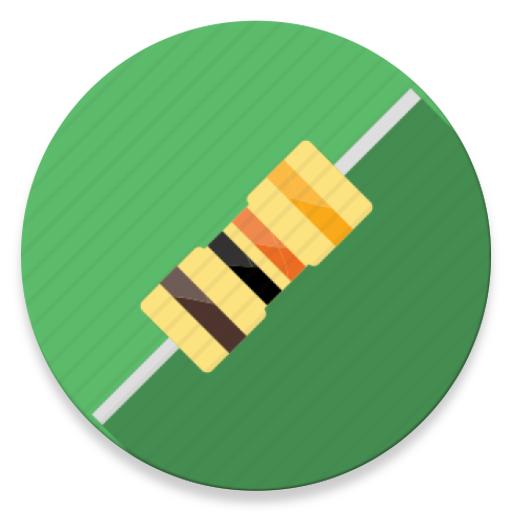
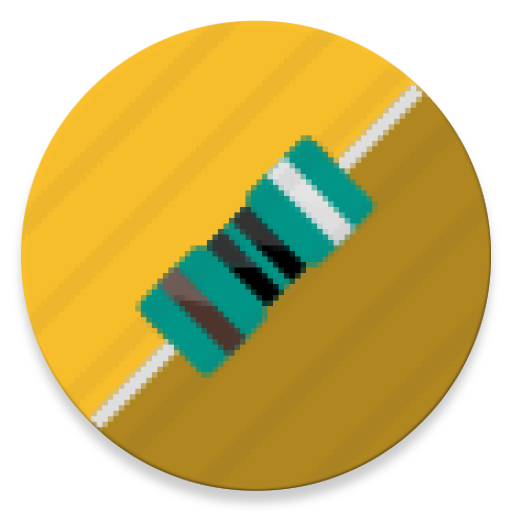
Homescherm start layout

diff --git a/app/src/main/java/ap/appoty/viktorsegers/jonaskoppen/resistorcalculator/CalculatorDummyRepository.java b/app/src/main/java/ap/appoty/viktorsegers/jonaskoppen/resistorcalculator/CalculatorDummyRepository.java
@@ -26,7 +26,7 @@ public class CalculatorDummyRepository implements ICalculatorRepository {
 
         calculators.add(new Calculator("KleurCode", R.mipmap.ic_kleurcode));
         calculators.add(new Calculator("SerieSchakeling", R.mipmap.ic_serie));
-        calculators.add(new Calculator("ParallelSchakeling", R.mipmap.ic_serie));
+        calculators.add(new Calculator("ParallelSchakeling", R.mipmap.ic_para));
 
         return calculators;
     }

diff --git a/app/src/main/java/ap/appoty/viktorsegers/jonaskoppen/resistorcalculator/CalculatorAdapter.java b/app/src/main/java/ap/appoty/viktorsegers/jonaskoppen/resistorcalculator/CalculatorAdapter.java
@@ -28,7 +28,7 @@ public class CalculatorAdapter extends ArrayAdapter<Calculator> {
 
 
         ImageView imageView = (ImageView)view.findViewById(R.id.icon);
-        TextView textView = (TextView)view.findViewById(R.id.text);
+        TextView textView = (TextView)view.findViewById(R.id.name);
 
 
         imageView.setImageResource(getItem(position).getImage());
